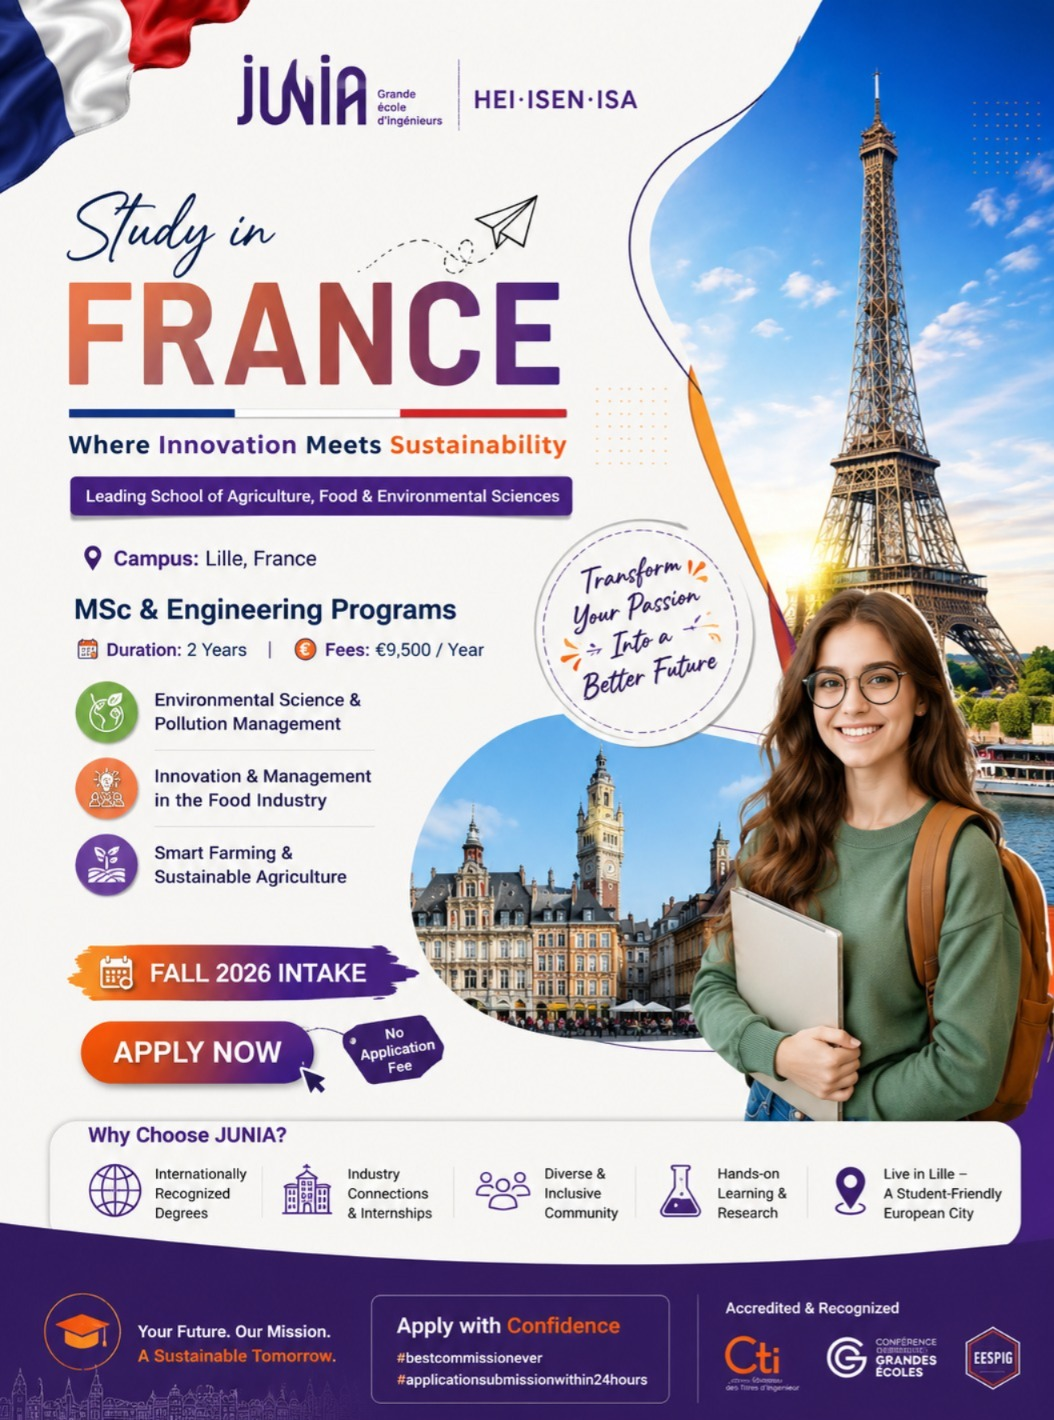
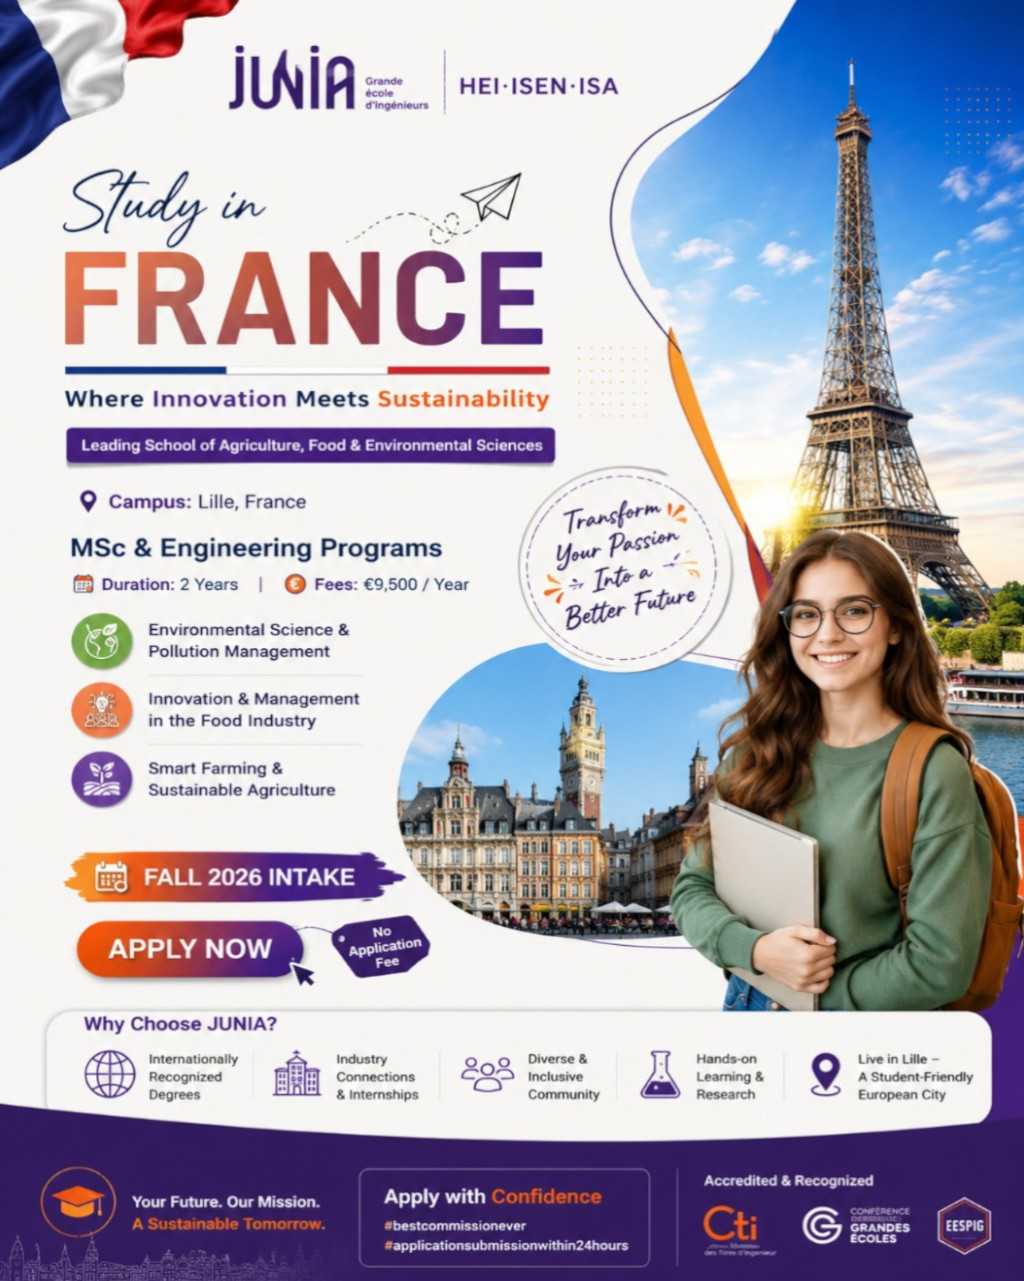
Add files via upload

diff --git a/index.html b/index.html
@@ -1,5 +1,6 @@
 <!DOCTYPE html>
 <html lang="en">
+<!---Who ever edits this in future i have left you some tags you can use them ---->
 
 <head>
     <meta charset="UTF-8">
@@ -73,7 +74,7 @@
             </div>
         <div class="hero-image" id="heroImage">
   <div class="hero-tilt" id="heroTilt">
-    <img src="assets/images/hero-image%20.png" alt="Hero image" class="hero-main-image">
+    <img src="assets/images/hero-image.jpeg" alt="Hero image" class="hero-main-image">
   </div>
 </div>
         </div>
@@ -87,11 +88,11 @@
 <div class="slideshow-3d-wrap">
     <div class="slideshow-container">
         <div class="slide-track">
-            <img src="assets/images/slide4.png" alt="0" class="slide-clone">
+            <img src="assets/images/slide4.jpeg" alt="0" class="slide-clone">
             <img src="assets/images/slide1.jpeg" alt="1">
-            <img src="assets/images/slide2.png" alt="2">
-            <img src="assets/images/slide3.png" alt="3">
-            <img src="assets/images/slide4.png" alt="4">
+            <img src="assets/images/slide2.jpeg" alt="2">
+            <img src="assets/images/slide3.jpeg" alt="3">
+            <img src="assets/images/slide4.jpeg" alt="4">
             <img src="assets/images/slide1.jpeg" alt="5" class="slide-clone">
         </div>
     </div>
@@ -477,13 +478,14 @@
                         <div class="logo-sub logo-sub-light">GLOBAL</div>
                     </div>
                     <p>Empowering students and institutions to achieve global educational excellence through strategic partnerships and expert guidance.</p>
-                    <div class="social-links">
+                  <!--  <div class="social-links">
                         <a href="#"><i class="fab fa-facebook-f"></i></a>
                         <a href="#"><i class="fab fa-twitter"></i></a>
                         <a href="#"><i class="fab fa-linkedin-in"></i></a>
                         <a href="#"><i class="fab fa-instagram"></i></a>
                         <a href="#"><i class="fab fa-youtube"></i></a>
-                    </div>
+                    </div> 
+                    --->
                 </div>
                 <div class="footer-column">
                     <h4>Quick Links</h4>
@@ -522,6 +524,10 @@
         </div>
     </footer>
     <button id="scrollTopBtn" aria-label="Scroll to top">↑</button>
+    <!-- WhatsApp Button -->
+<a href="https://wa.me/919682334131" target="_blank" rel="noopener noreferrer" class="whatsapp-btn" id="whatsappBtn" aria-label="Chat on WhatsApp">
+  <i class="fab fa-whatsapp"></i>
+</a>
 
   <script>
       // FormSubmit mail format
@@ -794,7 +800,7 @@ document.addEventListener("DOMContentLoaded", function() {
     }
 
     let position = 0;
-    let speed = 0.5; // Adjust for faster/slower
+    let speed = 1.2; // Adjust for faster/slower
     let isPaused = false;
     let animationId;
 
@@ -820,7 +826,48 @@ document.addEventListener("DOMContentLoaded", function() {
 
     animate();
 });
-      
+      //Whatsapp btn 
+      document.addEventListener("DOMContentLoaded", () => {
+  const scrollBtn = document.getElementById("scrollTopBtn");
+  const whatsappBtn = document.getElementById("whatsappBtn");
+  if (!scrollBtn) return;
+
+  window.addEventListener("scroll", () => {
+    const show = window.scrollY > 300;
+    scrollBtn.classList.toggle("show", show);
+    if (whatsappBtn) whatsappBtn.classList.toggle("shifted", show);
+  });
+
+  scrollBtn.addEventListener("click", () => {
+    window.scrollTo({ top: 0, behavior: "smooth" });
+  });
+});
+   // Nav Hamburger
+document.addEventListener("DOMContentLoaded", () => {
+  const toggle = document.querySelector(".mobile-menu");
+  const icon = toggle.querySelector("i");
+  const nav = document.querySelector(".nav-links");
+  if (!toggle || !nav) return;
+
+  toggle.addEventListener("click", () => {
+    const isActive = nav.classList.toggle("nav-active");
+    icon.className = isActive ? "fas fa-times" : "fas fa-bars";
+  });
+
+  nav.querySelectorAll("a").forEach(link => {
+    link.addEventListener("click", () => {
+      nav.classList.remove("nav-active");
+      icon.className = "fas fa-bars";
+    });
+  });
+
+  document.addEventListener("click", (e) => {
+    if (!nav.contains(e.target) && !toggle.contains(e.target)) {
+      nav.classList.remove("nav-active");
+      icon.className = "fas fa-bars";
+    }
+  });
+});
 </script>
 
 

diff --git a/styles.css b/styles.css
@@ -240,7 +240,32 @@ nav.scrolled {
     background: var(--white);
     color: var(--navy-medium);
 }
-
+.whatsapp-btn {
+  position: fixed;
+  bottom: 30px;
+  right: 30px;
+  width: 48px;
+  height: 48px;
+  background: #3b82f6;
+  color: white;
+  border-radius: 50%;
+  display: flex;
+  align-items: center;
+  justify-content: center;
+  font-size: 24px;
+  text-decoration: none;
+  box-shadow: 0 4px 12px rgba(0,0,0,0.15);
+  transition: right 0.3s ease, background 0.3s ease, transform 0.3s ease;
+  z-index: 998;
+}
+.whatsapp-btn:hover {
+  background: #1da851;
+  transform: translateY(-3px);
+}
+/* Shifts left when scroll-to-top appears */
+.whatsapp-btn.shifted {
+  right: 90px;
+}
 /* ================================
    HERO SECTION
    ================================ */
@@ -279,7 +304,7 @@ nav.scrolled {
 */
 .hero {
     margin-top: 80px;
-    background-image: url('assets/images/hero-background3.png');; /* ← Replace with your image */
+    background-image: url('assets/images/hero-background3.jpeg');; /* ← Replace with your image */
     background-size: cover;
     background-position: center;
     background-repeat: no-repeat;
@@ -646,11 +671,20 @@ section {
     border-top: 4px solid var(--navy-medium);
 }
 
-.service-card:hover {
+/*.service-card:hover {
     transform: translateY(-10px);
     box-shadow: var(--shadow-lg);
 }
-
+*/
+.service-card:hover {
+  transform: translateY(-8px);
+  border-color: var(--blue-accent);
+  /* Glow + depth shadow */
+  box-shadow: 
+    0 0 20px var(--blue-accent),
+    0 0 40px rgba(0, 0, 0, 0.15),
+    0 12px 24px rgba(0, 0, 0, 0.12);
+}
 .service-icon {
     width: 70px;
     height: 70px;
@@ -1068,7 +1102,7 @@ footer {
   right: 30px;
   width: 48px;
   height: 48px;
-  background: #1a3a5c; /* Matches your site's primary blue */
+  background: #3b82f6; /* Matches your site's primary blue */
   color: white;
   border: none;
   border-radius: 50%;
@@ -1179,4 +1213,48 @@ footer {
         box-shadow: var(--shadow-md);
         gap: 1rem;
     }
+}
+
+/* Navbar Mobile */
+@media (max-width: 991px) {
+
+  .nav-links {
+    display: none;
+  }
+  
+  
+  .nav-links.nav-active {
+    display: flex;
+    position: fixed;
+    top: 70px; /* 🔑 CHANGE THIS to match your exact header height */
+    left: 50%;
+    width: 50%;
+    background: var(--white, #ffffff);
+    flex-direction: column;
+    align-items: center;
+    padding: 2rem 0;
+    gap: 1.5rem;
+    margin: 0;
+    list-style: none;
+    box-shadow: 0 8px 20px rgba(0,0,0,0.1);
+    z-index: 999;
+    animation: navSlide 0.3s ease forwards;
+  }
+  
+  .mobile-menu {
+    display: flex;
+    align-items: center;
+    justify-content: center;
+    width: 44px;
+    height: 44px;
+    cursor: pointer;
+    font-size: 1.5rem;
+    color: var(--navy-dark);
+    z-index: 1000;
+  }
+}
+
+@keyframes navSlide {
+  from { opacity: 0; transform: translateY(-10px); }
+  to { opacity: 1; transform: translateY(0); }
 }
